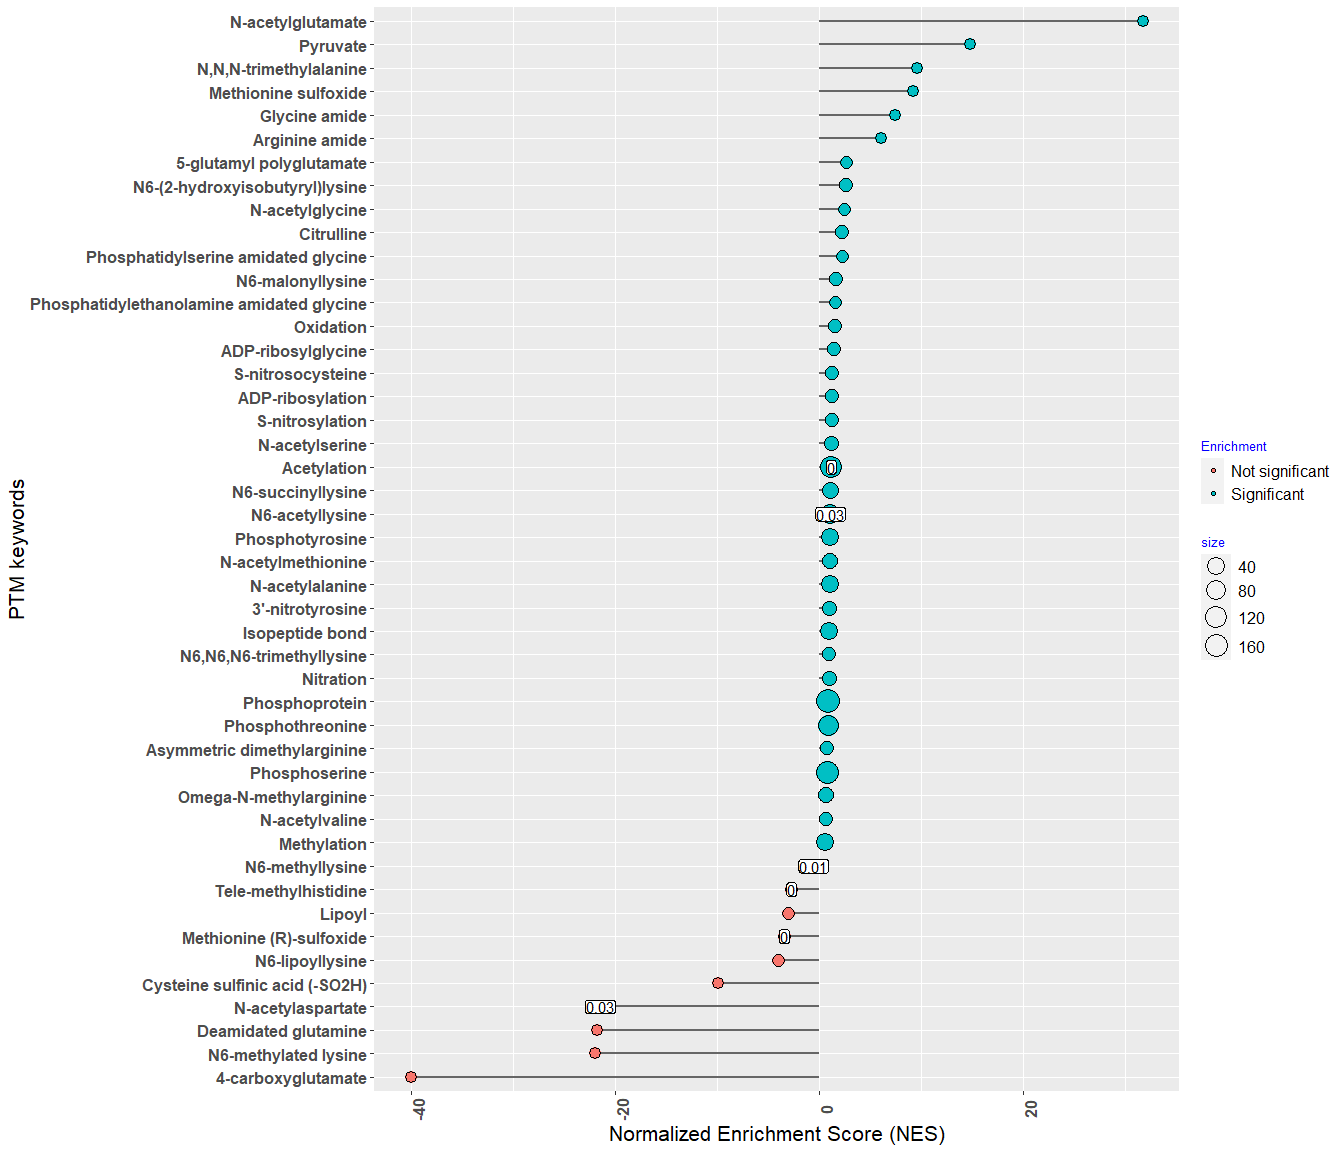
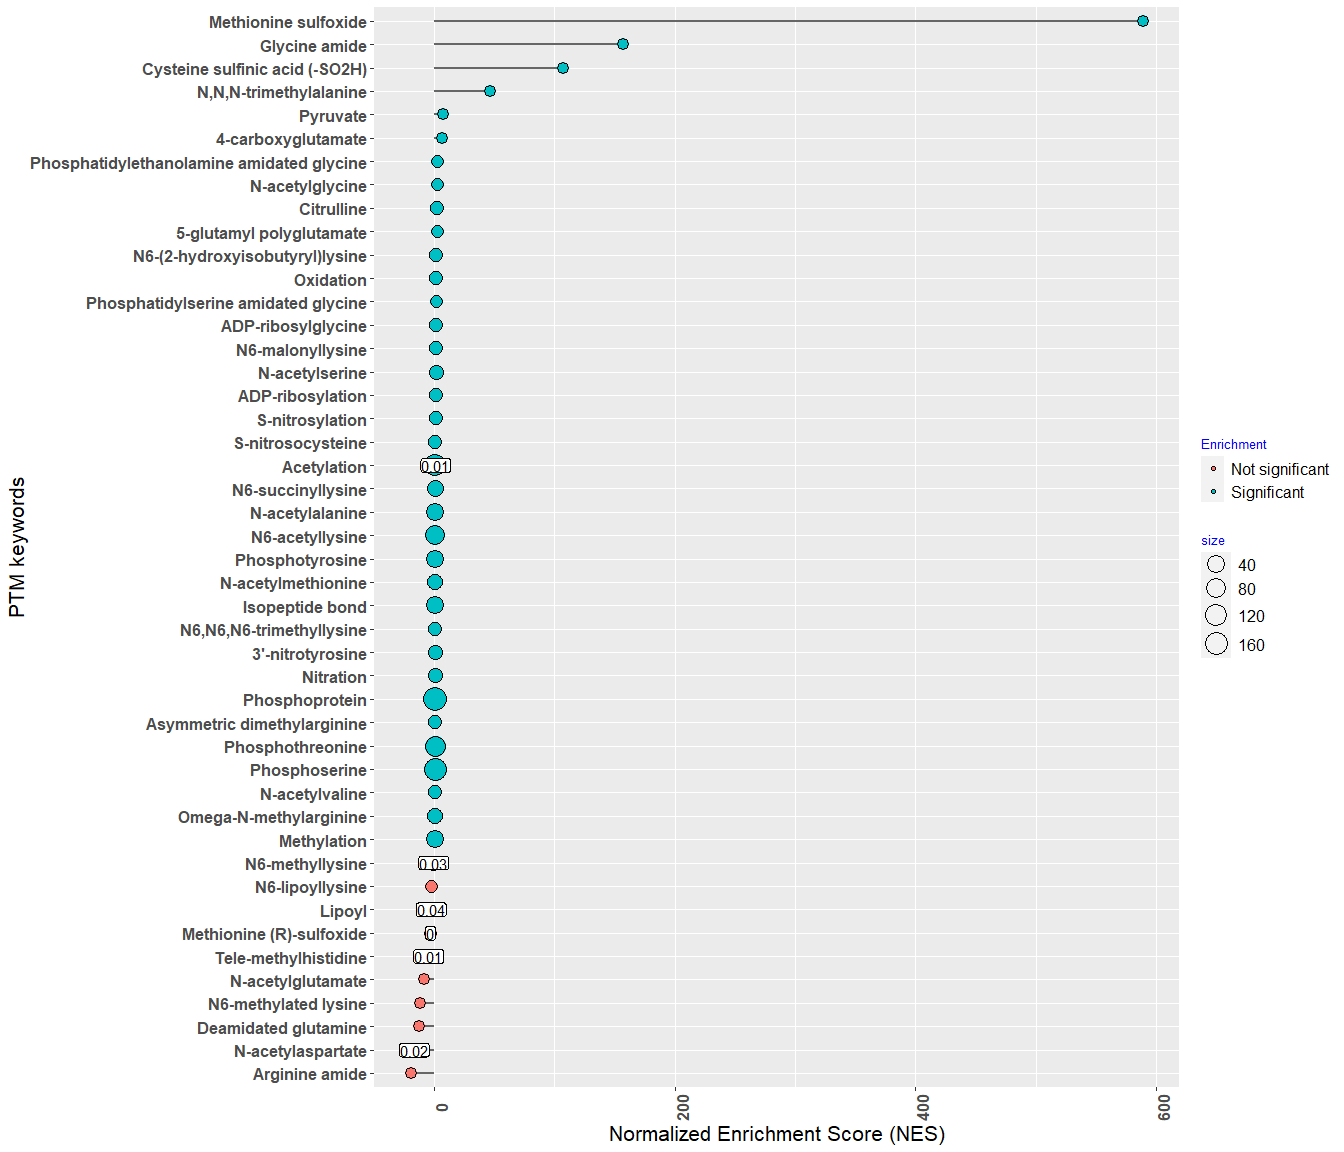
update

diff --git a/README.md b/README.md
@@ -2,7 +2,18 @@ README
 ================
 2022-10-27
 
-## PEIMAN2
+# PEIMAN2 <a href='https://github.com/pnickchi/PEIMAN2/'><img src="vignettes/logo.png" align="right" height="139"/></a>
+
+<!-- badges: start -->
+
+[![CRAN
+status](https://www.r-pkg.org/badges/version/PEIMAN2)](https://cran.r-project.org/package=PEIMAN2)
+[![GitHub
+Release](https://img.shields.io/github/release/jafarilab/PEIMAN2?style=flat)](https://github.com/jafarilab/PEIMAN2/releases)
+[![Github All
+Releases](https://img.shields.io/github/downloads/jafarilab/PEIMAN2/total.svg?style=flat)](https://github.com/jafarilab/PEIMAN2)
+
+<!-- badges: end -->
 
 The PEIMAN2 package
 
@@ -118,12 +129,12 @@ head(psea_res[[1]], n = 6)
     ## 5              N-acetylglutamate 0e+00   0e+00             1          1
     ## 6                N6-acetyllysine 6e-15   7e-14           992         73
     ##           ES        NES nMoreExtreme size      Enrichment
-    ## 1  0.7521522   1.191143            0  123     Significant
-    ## 2  0.7707317   1.533740           32    4     Significant
-    ## 3  0.9423077  -9.914011            5    1 Not significant
-    ## 4 -0.9615385 -21.443737            3    1 Not significant
-    ## 5 -0.9663462  31.753555            7    1     Significant
-    ## 6  0.7226249   1.138236            3   73     Significant
+    ## 1  0.7521522   1.196043            1  123     Significant
+    ## 2  0.7707317   1.864768           24    4     Significant
+    ## 3  0.9423077 107.586957            6    1     Significant
+    ## 4 -0.9615385 -16.694491            2    1 Not significant
+    ## 5 -0.9663462  -8.258012            5    1 Not significant
+    ## 6  0.7226249   1.130643            6   73     Significant
     ##                                                                                                                                                                                                                                                                                                                                                                                                                                                                                                                                                                                                                                                                                                                                                                                                                                                                                                                                                                                                                       AC
     ## 1 P0C1X8; P11030; P60711; P63259; Q63028; Q62847; Q62848; Q9WUC4; P31399; P29419; P21571; P15999; D3ZAF6; Q9JJW3; O08839; P0DP29; P0DP30; P0DP31; P18418; P26772; P63039; B0K020; P08081; P08082; P45592; Q91ZN1; P11240; Q63768; P10715; P62898; Q9JHL4; Q7M0E3; P62628; Q07266; P84060; P62870; P15429; P07323; P60841; P56571; B0BN94; P55053; P55051; P07483; Q62658; Q32PX7; Q99PF5; Q5XI73; Q63228; P62994; P01946; P02091; P11517; P62959; P82995; P34058; P27321; Q5XI72; P50411; Q6AXU6; Q5BK20; P11980; Q99MZ8; Q792I0; Q66HF9; P15205; Q5M7W5; P02688; B0BN72; P30904; O35763; P62775; Q71UE8; Q9JJ19; P13084; Q01205; P08461; Q920Q0; O88767; P04785; P31044; O55012; P10111; Q6J4I0; Q9R063; Q9EPC6; P02625; Q63475; P51583; Q68A21; P02401; P62982; P62859; Q6RJR6; Q9JK11; Q63945; B0BN85; P07632; Q66HL2; P28042; O35814; P13668; P37377; Q62880; P19332; P68370; Q6P9V9; Q6AYZ1; Q68FR8; Q5XIF6; Q6PEC1; P11232; P62076; P62078; Q9WV97; P48500; P04692; P58775; Q63610; P09495; Q7M767; Q9Z1A5; P63045
     ## 2                                                                                                                                                                                                                                                                                                                                                                                                                                                                                                                                                                                                                                                                                                                                                                                                                                                                                                                                                                                         P62986; P62982; P0CG51; Q63429
@@ -160,17 +171,23 @@ psea2mass(x = psea_res, sig.level = 0.05)
 ```
 
     ##      MOD_ID                     name
-    ## 1 MOD:00064       N6-acetyl-L-lysine
-    ## 2 MOD:00085       N6-methyl-L-lysine
+    ## 1 MOD:00085       N6-methyl-L-lysine
+    ## 2 MOD:00127       N6-lipoyl-L-lysine
     ## 3 MOD:00322    1'-methyl-L-histidine
     ## 4 MOD:00051 N-acetyl-L-aspartic acid
-    ##                                                                                                                                                                                                                                                           def
-    ## 1 "converts an L-lysine residue to N6-acetyl-L-lysine." [ChEBI:17752, DeltaMass:214, OMSSA:24, PubMed:11369851, PubMed:11857757, PubMed:11999733, PubMed:12175151, PubMed:14730666, PubMed:15350136, PubMed:1680872, PubMed:670159, RESID:AA0055, Unimod:1#K]
-    ## 2                                                                                                              "converts an L-lysine residue to N6-methyl-L-lysine." [ChEBI:17604, DeltaMass:165, PubMed:11875433, PubMed:3926756, RESID:AA0076, Unimod:34#K]
-    ## 3                                                                                "converts an L-histidine residue to tele-methyl-L-histidine." [PubMed:10601317, PubMed:11474090, PubMed:11875433, PubMed:6692818, PubMed:8076, PubMed:8645219, RESID:AA0317]
-    ## 4                                                                                                                              "converts an L-aspartic acid residue to N-acetyl-L-aspartic acid." [ChEBI:21547, PubMed:1560020, PubMed:2395459, RESID:AA0042]
+    ## 5 MOD:00053 N-acetyl-L-glutamic acid
+    ## 6 MOD:00685   deamidated L-glutamine
+    ##                                                                                                                                                                                   def
+    ## 1                                      "converts an L-lysine residue to N6-methyl-L-lysine." [ChEBI:17604, DeltaMass:165, PubMed:11875433, PubMed:3926756, RESID:AA0076, Unimod:34#K]
+    ## 2                            "converts an L-lysine residue to N6-lipoyl-L-lysine." [DeltaMass:0, OMSSA:67, PubMed:3421911, PubMed:3522581, PubMed:7719855, RESID:AA0118, Unimod:42#K]
+    ## 3        "converts an L-histidine residue to tele-methyl-L-histidine." [PubMed:10601317, PubMed:11474090, PubMed:11875433, PubMed:6692818, PubMed:8076, PubMed:8645219, RESID:AA0317]
+    ## 4                                                      "converts an L-aspartic acid residue to N-acetyl-L-aspartic acid." [ChEBI:21547, PubMed:1560020, PubMed:2395459, RESID:AA0042]
+    ## 5                                                                      "converts an L-glutamic acid residue to N-acetyl-L-glutamic acid." [ChEBI:17533, PubMed:6725286, RESID:AA0044]
+    ## 6 "converts an L-glutamine residue to L-glutamic acid." [PubMed:1881881, PubMed:4565668, PubMed:4922541, PubMed:6692818, PubMed:9192900, PubMed:957425, RESID:AA0006#GLN, Unimod:7#Q]
     ##   FreqinList
-    ## 1         73
-    ## 2          9
+    ## 1          9
+    ## 2          2
     ## 3          2
     ## 4          1
+    ## 5          1
+    ## 6          1
